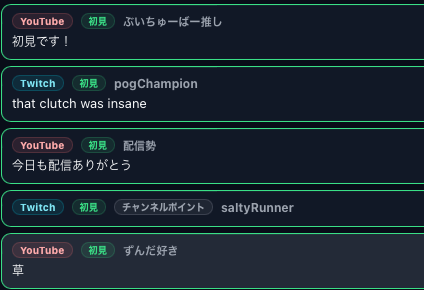
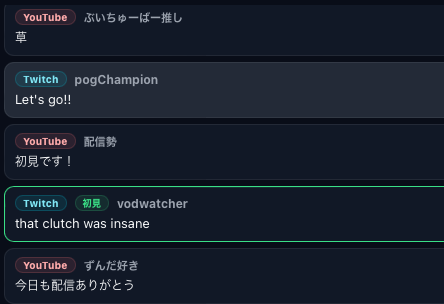
fix:「初見がわかる UI」のダーク画像を、対比のあるものに差し替え
前の素材は写っている行が全員「初見」だったため、対比が無く
「一目でわかる」が画像から読み取れなかった（依頼者の指摘）。

バッジの付いていない行を 4 つ混ぜた素材に差し替えた。緑枠＋バッジの
1 行だけが周りから浮き上がって見える。444x304・比 1.461（ライトの
1.460 に合わせてある）・表示倍率 70%。

⚠⚠ **ライト側は未対応**——素材の写っている行が全員「初見」のままで、
同じ問題が残っている。差し替えには対比のあるライトの素材が要る。

⚠ この機能の素材は**バッジが付いていない行を必ず混ぜて撮ること**を
コメントに書き残した。

（なお「久しぶり」はラベルどおり実装されている＝最終コメントから
1 ヶ月以上。今回の素材には条件を満たす視聴者が居ないので写っていない。）

Changed region(s): [[0.0, 0.0, 1.0, 1.0]]

diff --git a/src/sections/CommentViewer.tsx b/src/sections/CommentViewer.tsx
@@ -20,6 +20,10 @@ import styles from "./CommentViewer.module.css";
  * ⚠ 配信画面のオーバーレイだけは地が黒なので、ライトの 1 枚を両テーマで使い回す
  * （`dark: false`）。
  *
+ * ⚠⚠ 「初見がわかる UI」は**バッジが付いていない行を必ず混ぜて撮ること**。
+ * 全員に付いていると対比が無く、「一目でわかる」が画像から読み取れない
+ * （依頼者の指摘・2026-09-06）。⇒ ダークは差し替え済み、**ライトは未対応**。
+ *
  * ⚠⚠ ダークの素材は元が非 Retina（同じ画面でライトの約半分の解像度）。
  * 一覧では 73〜90% で表示するので読めるが、Retina のディスプレイでは
  * わずかに甘い。撮り直すなら Retina で。
@@ -39,7 +43,7 @@ const FEATURES = [
     dark: true,
     width: 590,
     height: 404,
-    alt: "コメント一覧の一部。各行の名前の左に「初見」バッジが付いていて、初めて来た視聴者がひと目でわかる。",
+    alt: "コメント一覧の一部。初めて来た視聴者の行にだけ「初見」バッジが付き、枠の色も変わって周りの行から浮き上がって見える。",
   },
   {
     label: "右クリックで気になるコメントを簡単に固定",
